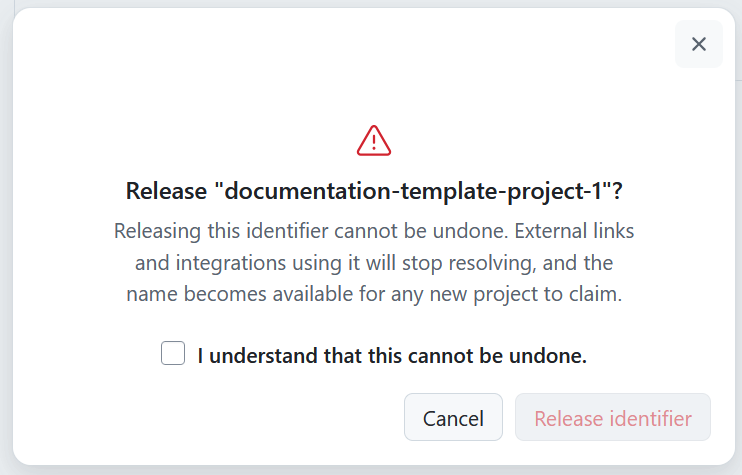
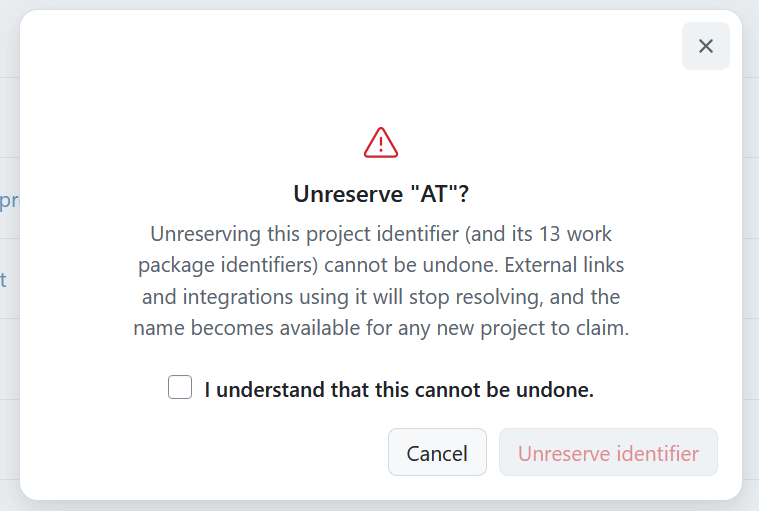
[DOCU-831] 17.6 Project identifiers changes  https://community.openproject.org/wp/DOCU-831
[DOCU-831] 17.6 Project identifiers changes

https://community.openproject.org/wp/DOCU-831

diff --git a/docs/system-admin-guide/projects/reserved-project-identifiers/README.md b/docs/system-admin-guide/projects/reserved-project-identifiers/README.md
@@ -10,30 +10,36 @@ keywords: reserved identifier, reserved project identifier, project identifier, 
 
 When a project identifier is changed, OpenProject keeps the previous identifier reserved. This ensures that existing links, bookmarks, integrations, and references continue to work after the change.
 
-For example, if a project's identifier changes from `OLDPROJ` to `OLDPROJECT`, both identifiers continue to resolve to the same project.
+For example, if a project's identifier changes from `OLDPROJ` to `OLDPROJECT`, both identifiers continue to resolve to the same project. The following continue to work:
+
+/projects/OLDPROJ
+/projects/OLDPROJ/work_packages/1
+/OLDPROJ-1
+
+After unreserving OLDPROJ, these URLs no longer resolve.
 
 Reserved identifiers cannot be used by other projects. A project identifier that has been used before can only be reused by the same project unless it is explicitly released by an administrator.
 
 ## Release reserved project identifiers
 
-If a reserved identifier is no longer needed, administrators can release it and make it available for use by other projects.
+If a reserved identifier is no longer needed, administrators can unreserve it and make it available for use by other projects.
 
-To release a reserved project identifier navigate to **Administration** → **Projects** → **Reserved project identifiers**. You will see a list of reserved project identifiers, including the project name and the served identifier. 
+To release a reserved project identifier navigate to **Administration** → **Projects** → **Reserved project identifiers**. You will see a list of reserved project identifiers, including the project name and the reserved identifier. 
 
 A search field above the table can be used to filter the list. If no reserved identifiers exist, the table will be empty.
 
 ![Reserved project identifiers in OpenProject administration](open_project_system_guide_projects_reserved_identifiers.png)
 
-To release an identifier, click **Release** next to the corresponding entry.
+To release an identifier, click **Unreserve** next to the corresponding entry.
 
-OpenProject displays a confirmation dialog explaining the consequences of releasing the identifier.
+OpenProject displays a confirmation dialog explaining the consequences of unreserving the identifier.
 
 ![A warning message displayed when a reserved project identifier is released in OpenProject administration](open_project_system_guide_projects_reserved_identifiers_warning_message.png)
 
 Select the confirmation checkbox and click **Release identifier** to continue.
 
 > [!WARNING]
-> Releasing an identifier cannot be undone. Existing external links, bookmarks, integrations, and references that rely on the released identifier will no longer resolve. The identifier becomes available for any project to claim.
+> Releasing an identifier cannot be undone. Existing external links, bookmarks, integrations, and references that rely on the released identifier will no longer resolve. This includes project URLs as well as semantic work package URLs that use the previous project identifier. The identifier becomes available for any project to claim.
 
 > [!WARNING]
 > Only release a reserved identifier when you are certain it is no longer needed. If there is any possibility that existing links, integrations, documentation, or user bookmarks still reference the identifier, it is usually safer to keep it reserved.
